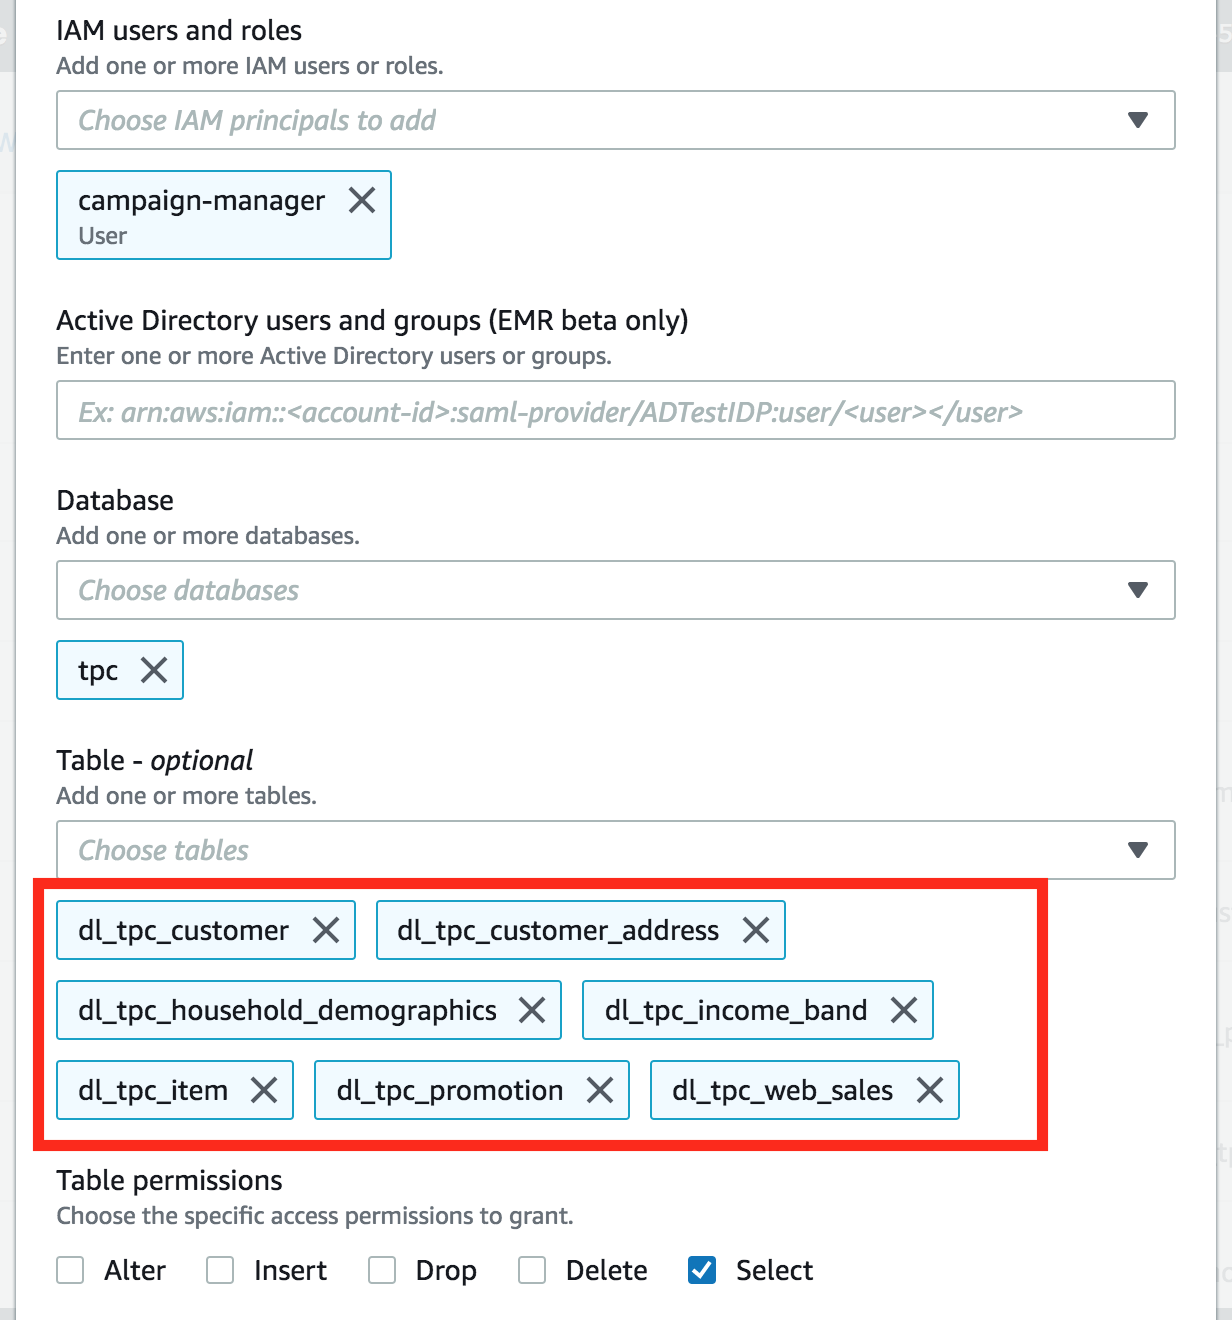
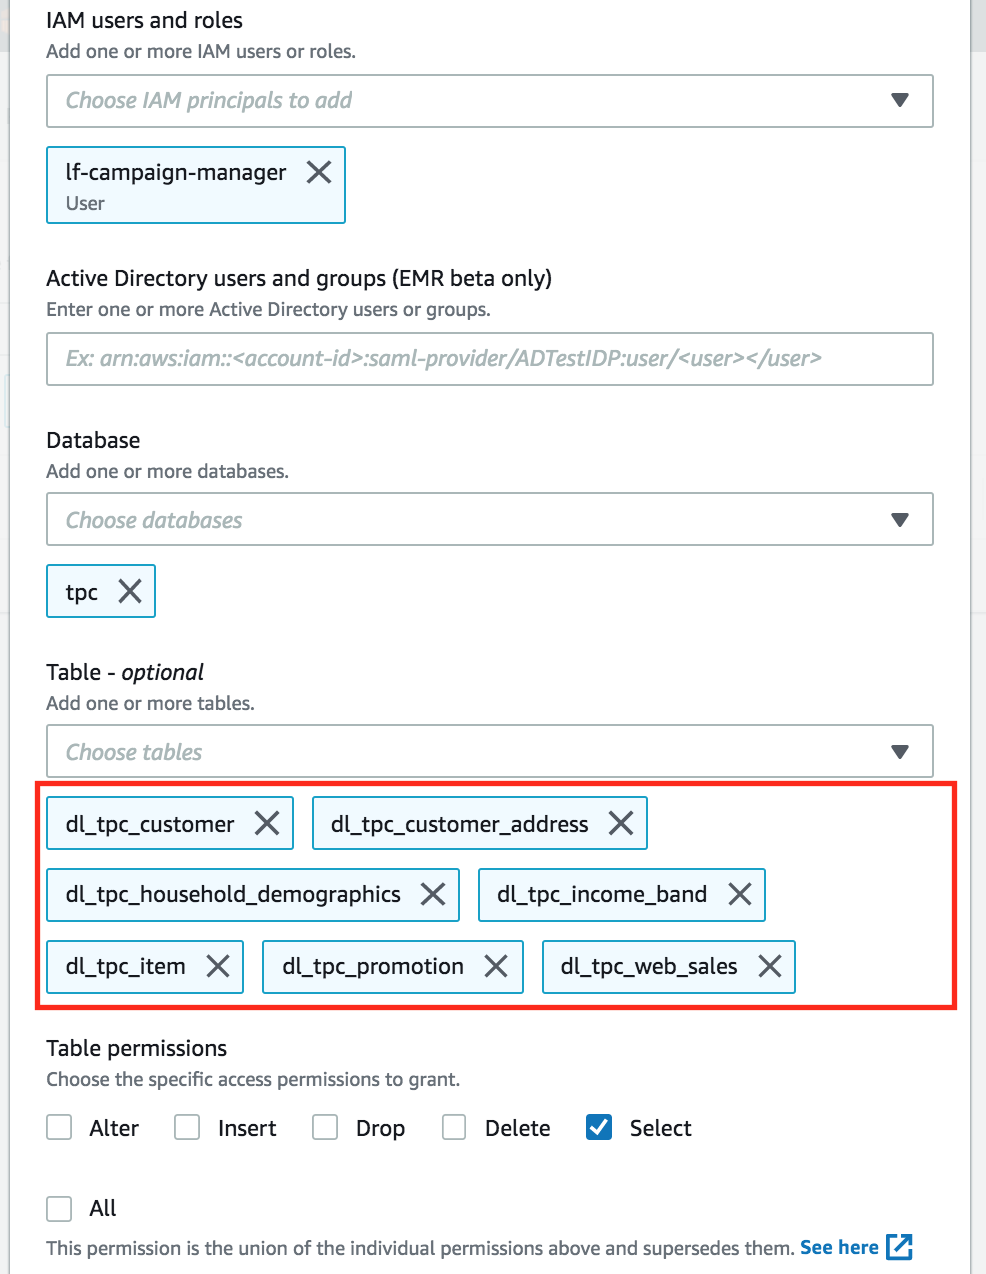
Updated content, screenshots and CFN template

Changed region(s): [[0.0, 0.0, 1.0, 1.0]]

diff --git a/website/content/40-exercises/401-intermediate/4016-Querying/40162-AsABusinessAnalyst.md b/website/content/40-exercises/401-intermediate/4016-Querying/40162-AsABusinessAnalyst.md
@@ -5,18 +5,18 @@ weight = 40162
 +++
 
 <div style="text-align: justify">
-   Login to your AWS account as the user <b>business analyst</b>. Let us make sure this user can run queries from Athena console on all tables except the PII data in customer table.
+   Login to your AWS account as the user <b>lf-business-analyst</b>. Let us make sure this user can run queries from Athena console on all tables except the PII data in customer table.
   <ol>
     <li>From the AWS Management console, search for <b>Amazon Athena</b> service <img src="/images/Query-AthenaService-search.png" style="margin:15px 0px; border:1px solid black"/>
     </li>
-    <li>Make sure you are logged in as a business-analyst user<img src="/images/business-analyst-view.png" style="margin:15px 0px; border:1px solid black"/>
+    <li>Make sure you are logged in as a lf-business-analyst user<img src="/images/business-analyst-view.png" style="margin:15px 0px; border:1px solid black"/>
     </li>
-    <li>Locate and expand the <b>tpc_customer</b> table on the left hand side of the screen. Notice how the table does not show any PII data for the customer table</li><img src="/images/business-analyst-noPII.png" style="margin:15px 0px; border:1px solid black"/>
+    <li>Locate and expand the <b>dl_tpc_customer</b> table on the left hand side of the screen. Notice how the table does not show any PII data for the customer table</li><img src="/images/business-analyst-noPII.png" style="margin:15px 0px; border:1px solid black"/>
     <li>On the top left hand side of the screen, select <b>Saved Queries</b> and choose a query named <b>LF-BusinessAnalyst-Query</b> <img src="/images/business-analyst-queries.png" style="margin:15px 0px; border:1px solid black"/>
     </li>
-    <li>Run each query one at a time. You will notice the results appear within few seconds after you click on <b>Run Query</b> for the first 2 queries <img src="/images/business-analyst-query-success.png" style="margin:15px 0px; border:1px solid black"/>
+    <li>Run each query one at a time, highlight(select) each of the entire statement on the Athena console and then click on the <b>Run query</b> button. You will notice the results appear within few seconds:<img src="/images/business-analyst-query-success.png" style="margin:15px 0px; border:1px solid black"/>
     </li>
     <li>The last query tries to access the PII data and as expected the business analyst user will get an error message<img src="/images/business-analyst-query-failure.png" style="margin:15px 0px; border:1px solid black"/></li>
-    <li>Proceed to test the data access permissions for a <b>campaign-manager</b> persona.</li>
+    <li>Proceed to test the data access permissions for a <b>lf-campaign-manager</b> persona.</li>
   </ol>
 </div>

diff --git a/website/content/40-exercises/401-intermediate/4016-Querying/40161-AsADeveloper.md b/website/content/40-exercises/401-intermediate/4016-Querying/40161-AsADeveloper.md
@@ -5,15 +5,15 @@ weight = 40161
 +++
 
 <div style="text-align: justify">
-  As you may recall, a developer only has access to web_page and web_sales tables. Login to your AWS account as the user <b>developer</b>. Let us make sure a developer run queries from Athena console on those tables and nothing else.
+  As you may recall, a developer only has access to web_page and web_sales tables. Login to your AWS account as the user <b>lf-developer</b>. Let us make sure a developer run queries from Athena console on those tables and nothing else.
   <ol>
     <li>From the AWS Management console, search for <b>Amazon Athena</b> service <img src="/images/Query-AthenaService-search.png" style="margin:15px 0px; border:1px solid black"/>
     </li>
-    <li>Make sure you are logged in as a developer<img src="/images/Athena-developer-view.png" style="margin:15px 0px; border:1px solid black"/></li>
-    <li>As you my have noticed, a developer can only see two tables <b>web_page</b> and <b>web_sales</b>.
+    <li>Make sure you are logged in as a lf-developer<img src="/images/Athena-developer-view.png" style="margin:15px 0px; border:1px solid black"/></li>
+    <li>As you my have noticed, a developer can only see two tables <b>dl_tpc_web_page</b> and <b>dl_tpc_web_sales</b>.
     <li>On the top left hand side of the screen, select <b>Saved Queries</b> and choose a query named <b>LF-Developer-Query</b> <img src="/images/Athena-Dev-Saved-Query.png" style="margin:15px 0px; border:1px solid black"/></li>
-    <li>Run each query one at a time. You will notice the results appear within few seconds after you click on <b>Run Query</b> for the first 3 queries <img src="/images/Athena-Dev-Query-Success.png" style="margin:15px 0px; border:1px solid black"/></li>
+    <li>Run each query one at a time, highlight(select) each of the entire statement on the Athena console and then click on the <b>Run query</b> button. You will notice the results appear within few seconds after you click on <b>Run Query</b> for the first 3 queries <img src="/images/Athena-Dev-Query-Success.png" style="margin:15px 0px; border:1px solid black"/></li>
     <li>Now run the last query. Since a developer does not have access to any other table, querying item table produces a insufficient privileges message as shown in the screenshot <img src="/images/Athena-Dev-Query-Failure.png" style="margin:15px 0px; border:1px solid black"/></li>
-    <li> Let's check out the data permissions for <b>business-analyst</b> and <b>campaign-manager</b> users.</li>
+    <li> Let's check out the data permissions for <b>lf-business-analyst</b> and <b>lf-campaign-manager</b> users.</li>
   </ol>
 </div>

diff --git a/website/content/40-exercises/401-intermediate/4016-Querying/40163-AsACampaignManager.md b/website/content/40-exercises/401-intermediate/4016-Querying/40163-AsACampaignManager.md
@@ -5,15 +5,15 @@ weight = 40163
 +++
 
 <div style="text-align: justify">
-  Login to your AWS account as the user <b>campaign-manager</b>. Proceed to the Athena console.
+  Login to your AWS account as the user <b>lf-campaign-manager</b>. Proceed to the Athena console.
   <ol>
     <li>From the AWS Management console, search for <b>Amazon Athena</b> service <img src="/images/Query-AthenaService-search.png" style="margin:15px 0px; border:1px solid black"/>
     </li>
     <li>Make sure you are logged in as a business-analyst user<img src="/images/campaign-manager-view.png" style="margin:15px 0px; border:1px solid black"/>
     </li>
-    <li>Locate and expand the table section on the left hand side of the screen. Notice that a campaign manager has access to all tables except <b>web_page</b></li>
+    <li>Locate and expand the table section on the left hand side of the screen. Notice that a campaign manager has access to all tables except <b>dl_tpc_web_page</b></li>
     <li>On the top left hand side of the screen, select <b>Saved Queries</b> and choose a query named <b>LF-CampaignManager-Query</b> <img src="/images/campaign-manager-queries.png" style="margin:15px 0px; border:1px solid black"/></li>
-    <li>Run each query one at a time. You will notice the results appear within few seconds after you click on <b>Run Query</b> for the first query <img src="/images/campaign-manager-query-success.png" style="margin:15px 0px; border:1px solid black"/></li>
-    <li>As expected, the second query throws an error as table <b>web_page</b> is not accessible to a campaign manager<img src="/images/campaign-manager-query-failure.png" style="margin:15px 0px; border:1px solid black"/></li>
+    <li>Run each query one at a time, highlight(select) each of the entire statement on the Athena console and then click on the <b>Run query</b> button. You will notice the results appear within few seconds: <img src="/images/campaign-manager-query-success.png" style="margin:15px 0px; border:1px solid black"/></li>
+    <li>As expected, the second query throws an error as table <b>dl_tpc_web_page</b> is not accessible to a campaign manager<img src="/images/campaign-manager-query-failure.png" style="margin:15px 0px; border:1px solid black"/></li>
   </ol>
 </div>

diff --git a/website/content/40-exercises/401-intermediate/4015-permissions/40153-business-analyst-permissions.md b/website/content/40-exercises/401-intermediate/4015-permissions/40153-business-analyst-permissions.md
@@ -5,14 +5,14 @@ weight = 40153
 +++
 
 <div style="text-align: justify">
-  Let's return to the Lake Formation console to set data permissions for a business-analyst persona.
+  Let's return to the Lake Formation console to set data permissions for a business analyst persona.
   <div style="text-align: left">
     <ol>
       <li>Click on <b>Grant</b> button in the Data permissions window <img src="/images/DataPermissions-Grant.png" style="margin:15px 0px; border:1px solid black"/>
       </li>
-      <li>On the window that pops up, for IAM users and roles drop down select <b>business-analyst</b>, choose <b>tpc</b> for the database and select <b>dl_tpc_customer</b> table with PII columns excluded and <b>Select</b> as the only Table permission <img src="/images/business-analyst-perms-0.png" style="margin:15px 0px; border:1px solid black"/><img src="/images/business-analyst-perms-1.png" style="margin:15px 0px; border:1px solid black"/></li>
+      <li>On the window that pops up, for IAM users and roles drop down select <b>lf-business-analyst</b>, choose <b>tpc</b> for the database and select <b>dl_tpc_customer</b> table with PII columns excluded and <b>Select</b> as the only Table permission <img src="/images/business-analyst-perms-0.png" style="margin:15px 0px; border:1px solid black"/><img src="/images/business-analyst-perms-1.png" style="margin:15px 0px; border:1px solid black"/></li>
       <li>Leave the <b> Grantable permissions </b> unselected and click on the <b>Grant</b> button.</li>
-      <li>For the customer table, a <b>business-analyst</b> will only be able to see non-PII columns.</li>
+      <li>For the customer table, a <b>lf-business-analyst</b> will only be able to see non-PII columns.</li>
     </ol>
   </div>
 </div>

diff --git a/website/content/40-exercises/401-intermediate/4011-admin-db-creator.md b/website/content/40-exercises/401-intermediate/4011-admin-db-creator.md
@@ -8,13 +8,13 @@ weight = 4011
 <div style="text-align: left">
     A data lake administrator is an IAM user or IAM role that has the ability to grant any principal (including self) any permission on any Data Catalog resource. Designate a data lake administrator as the first user of the Data Catalog.
     <ol>
-        <li>Open a new browser (or Incognito window) and sign in to the AWS Management Console as an <b><i>admin</i></b> user (default password: Password1!) and open the Lake Formation console at <a
+        <li>Open a new browser (or Incognito window) and sign in to the AWS Management Console as an <b><i>lf-admin</i></b> user (default password: Password1!) and open the Lake Formation console at <a
                 href="https://console.aws.amazon.com/lakeformation/home?region=us-east-1">https://console.aws.amazon.com/lake-formation</a>.</li>
         <li>First, you use the Lake Formation console to designate a data lake administrator to allow access to any Lake
             Formation resource. Click on the <b>Add administrators</b> button to create administrator for your Data
             Lake.
             <img src="/images/welcometolf.png" style="margin:15px 0px; border:1px solid black"/></li>
-        <li>Select <b>admin</b> IAM user from the drop down list. For the rest of workshop, this user will be considered as a data lake administrator and will have full access to data lake.
+        <li>Select <b>lf-admin</b> IAM user from the drop down list. For the rest of workshop, this user will be considered as a data lake administrator and will have full access to data lake.
             <img src="/images/datalakeadmin.png" style="margin:15px 0px; border:1px solid black"/></li>
     </ol>
 </div>

diff --git a/website/content/40-exercises/401-intermediate/4014-blueprints.md b/website/content/40-exercises/401-intermediate/4014-blueprints.md
@@ -24,7 +24,7 @@ weight = 4014
         <li>For the AWS Glue <b>Database connection</b> name, choose <b>TPCGlueConnector</b> which is created through CloudFormation to access the TPC database running on RDS.
         </li>
         <li>For the <b>Source data path</b>, enter <b>"tpc/"</b>. Leave <b>Exclude pattern</b> options as default.<img src="/images/blueprint3.png" style="margin:15px 0px; border:1px solid black"/></li>
-        <li>Under <b>Import target</b> section, choose <b>tpc</b> as the target database. For the <b>Data lake location</b>, choose the S3 path which you used in the <b>Data lake storage</b> section. For Data format, choose <b>Parquet</b> as the format in which the data is written.<img src="/images/blueprint4.png" style="margin:15px 0px; border:1px solid black"/>
+        <li>Under <b>Import target</b> section, choose <b>tpc</b> as the target database. For the <b>Target storage location</b>, choose the S3 path which you used in the <b>Data Lake Locations</b> section. For Data format, choose <b>Parquet</b> as the format in which the data is written.<img src="/images/blueprint4.png" style="margin:15px 0px; border:1px solid black"/>
         </li>
         <li>Now move to <b>Import options</b>, enter a workflow name <b>tpc-ingest</b>. Choose <b>LF-GlueServiceRole</b> for the IAM role and enter "dt" as the <b>Table prefix</b>. Leave the rest of the fields as default.<img src="/images/blueprint5.png" style="margin:15px 0px; border:1px solid black"/>
         </li>

diff --git a/website/content/40-exercises/401-intermediate/4015-permissions/40154-business-analyst-permissions-2.md b/website/content/40-exercises/401-intermediate/4015-permissions/40154-business-analyst-permissions-2.md
@@ -10,10 +10,10 @@ weight = 40154
     <ol>
       <li>Click on <b>Grant</b> button in the Data permissions window <img src="/images/DataPermissions-Grant.png" style="margin:15px 0px; border:1px solid black"/>
       </li>
-      <li>On the window that pops up, for IAM users and roles drop down select <b>business-analyst</b>, choose <b>tpc</b> for the database and select all the tables except the <b>customer</b> table with <b>Select</b> as the only Table permission <img src="/images/business-analyst-perms-2.png" style="margin:15px 0px; border:1px solid black"/>
+      <li>On the window that pops up, for IAM users and roles drop down select <b>lf-business-analyst</b>, choose <b>tpc</b> for the database and select all the tables except the <b>customer</b> table with <b>Select</b> as the only Table permission <img src="/images/business-analyst-perms-2.png" style="margin:15px 0px; border:1px solid black"/>
       <li>Leave the <b> Grantable permissions </b> unselected and click on the <b>Grant</b> button.
-      <li>For all the tables selected above, a <b>business-analyst</b> will be able to see all columns.</li>
-      <li>Let's define the permissions for the <b>campaign-manager</b> persona next.</li>
+      <li>For all the tables selected above, a <b>lf-business-analyst</b> will be able to see all columns.</li>
+      <li>Let's define the permissions for the <b>lf-campaign-manager</b> persona next.</li>
     </ol>
   </div>
 </div>

diff --git a/website/content/40-exercises/401-intermediate/4013-data-lake-locations.md b/website/content/40-exercises/401-intermediate/4013-data-lake-locations.md
@@ -9,7 +9,7 @@ weight = 4013
         <li>Now register an Amazon S3 bucket as your data lake storage. After ingestion phase, data will be stored into this location.</li>
         <li>In the navigation pane, choose <b>Data lake locations</b>, and then choose <b>Register location</b>.<img src="/images/lakestorage1.png" style="margin:15px 0px; border:1px solid black" /></li>
         <li>Enter a path to an existing S3 bucket (created through CloudFormation) to contain the data that you want available in your data lake.</li>
-        <li>For the IAM role, choose <b>LF-GlueServiceRole</b> so that Lake Formation can write to the bucket. Click <b>Register location</b> to save it.<img src="/images/lakestorage2.png" style="margin:15px 0px; border:1px solid black"/></li>
+        <li>For the IAM role, keep the default role created by Lake Formation - <b>AWSServiceRoleForLakeFormationDataAccess</b> so that Lake Formation can write to the bucket. Click <b>Register location</b> to save it.<img src="/images/lakestorage2.png" style="margin:15px 0px; border:1px solid black"/></li>
         <li>Verify your data lake location selection.<img src="/images/lakestorage3.png" style="margin:15px 0px; border:1px solid black"/></li>
     </ol>
 </div>

diff --git a/website/content/30-prerequisite/303-ec2-keypair.md b/website/content/30-prerequisite/303-ec2-keypair.md
@@ -1,0 +1,26 @@
++++
+title = "Create EC2 Key Pair"
+weight = 303
+chapter = true
++++
+
+<center><h3>Creating a Key Pair Using Amazon EC2</h3></center>
+
+<div style="text-align: justify">
+    The CloudFormation template will require you to provide an Amazon EC2 key pair. if you already have an EC2 key pair, proceed to the next chapter.<br />
+</div>
+
+<div style="text-align: left">
+    <br/>
+    <b>To create your key pair using the Amazon EC2 console</b>
+    <ol>
+        <li>Open the Amazon EC2 console at <a href="https://console.aws.amazon.com/ec2/">https://console.aws.amazon.com/ec2/</a>
+        </li>
+        <li>In the navigation pane, under <b>NETWORK & SECURITY</b>, choose <b>Key Pairs</b>.
+        <li>For <b>User name</b>, type <b>Administrator</b>.
+        <li>Choose <b>Create Key Pair</b>.</li>
+        <li>For <b>Key pair name</b>, enter a name for the new key pair, and then choose <b>Create</b>.</li>
+        <li>The private key file is automatically downloaded by your browser. The base file name is the name you specified as the name of your key pair, and the file name extension is .pem. Save the private key file, this file will be required in the next chapter.</li>
+    </ol>
+
+</div>

diff --git a/website/content/20-sampledata/202-users-groups.md b/website/content/20-sampledata/202-users-groups.md
@@ -11,9 +11,9 @@ weight = 202
     these sets of users and groups in an Active Directory.
 
     <ul>
-        <li><b>developer</b> can only see <b>web_page</b> & <b>web_sales</b> tables.</li>
-        <li><b>campaign_manager</b> can see everything except <b>web_page</b> table.</li>
-        <li><b>business_analyst</b> can see everything except <b>web_page</b>, <b>web_sales</b> and cannot check customer personal information, for example: email address, address, date of birth, etc.</li>
-        <li><b>admin</b> has access to all Lake Formation components and can make any changes in Lake Formation.</li>
+        <li><b>lf-developer</b> can only see <b>web_page</b> & <b>web_sales</b> tables.</li>
+        <li><b>lf-campaign_manager</b> can see everything except <b>web_page</b> table.</li>
+        <li><b>lf-business_analyst</b> can see everything except <b>web_page</b>, <b>web_sales</b> and cannot check customer personal information, for example: email address, address, date of birth, etc.</li>
+        <li><b>lf-admin</b> has access to all Lake Formation components and can make any changes in Lake Formation.</li>
     </ul>
 </div>

diff --git a/website/content/40-exercises/401-intermediate/4015-permissions/40155-campaign-manager-permissions.md b/website/content/40-exercises/401-intermediate/4015-permissions/40155-campaign-manager-permissions.md
@@ -10,7 +10,7 @@ weight = 40154
     <ol>
       <li>Click on <b>Grant</b> button in the Data permissions window <img src="/images/DataPermissions-Grant.png" style="margin:15px 0px; border:1px solid black"/>
       </li>
-      <li>On the window that pops up, for IAM users and roles drop down select <b>campaign-manager</b>, choose <b>tpc</b> for the database with all tables except for the dl_tpc_web_page table and <b>Select</b> as the only Table permission <img src="/images/campaign-manager-perms.png" style="margin:15px 0px; border:1px solid black"/></li>
+      <li>On the window that pops up, for IAM users and roles drop down select <b>lf-campaign-manager</b>, choose <b>tpc</b> for the database with all tables except for the dl_tpc_web_page table and <b>Select</b> as the only Table permission <img src="/images/campaign-manager-perms.png" style="margin:15px 0px; border:1px solid black"/></li>
       <li>Leave the <b> Grantable permissions </b> unselected and click on the <b>Grant</b> button.</li>
   </ol>
   Let's now test out these data permissions we defined for different personas with Amazon Athena.

diff --git a/website/content/40-exercises/401-intermediate/4015-permissions/40152-developer-permissions.md b/website/content/40-exercises/401-intermediate/4015-permissions/40152-developer-permissions.md
@@ -12,7 +12,7 @@ weight = 40152
       </li>
       <li>Then click on <b>Grant</b> button <img src="/images/DataPermissions-Grant.png" style="margin:15px 0px; border:1px solid black"/>
       </li>
-      <li>On the window that pops up, fill out IAM users and roles as <b>developer</b>, choose <b>tpc</b> for the database and select <i>dl_tpc_web_page</i> and <i>dl_tpc_web_sales</i> as the tables with <b>Select</b> as the only Table permission <img src="/images/developer-perms.png" style="margin:15px 0px; border:1px solid black"/></li>
+      <li>On the window that pops up, fill out IAM users and roles as <b>lf-developer</b>, choose <b>tpc</b> for the database and select <i>dl_tpc_web_page</i> and <i>dl_tpc_web_sales</i> as the tables with <b>Select</b> as the only Table permission <img src="/images/developer-perms.png" style="margin:15px 0px; border:1px solid black"/></li>
       <li>Leave the <b> Grantable permissions </b> unselected and click on the <b>Grant</b> button.</li>
     </ol>
   </div>
